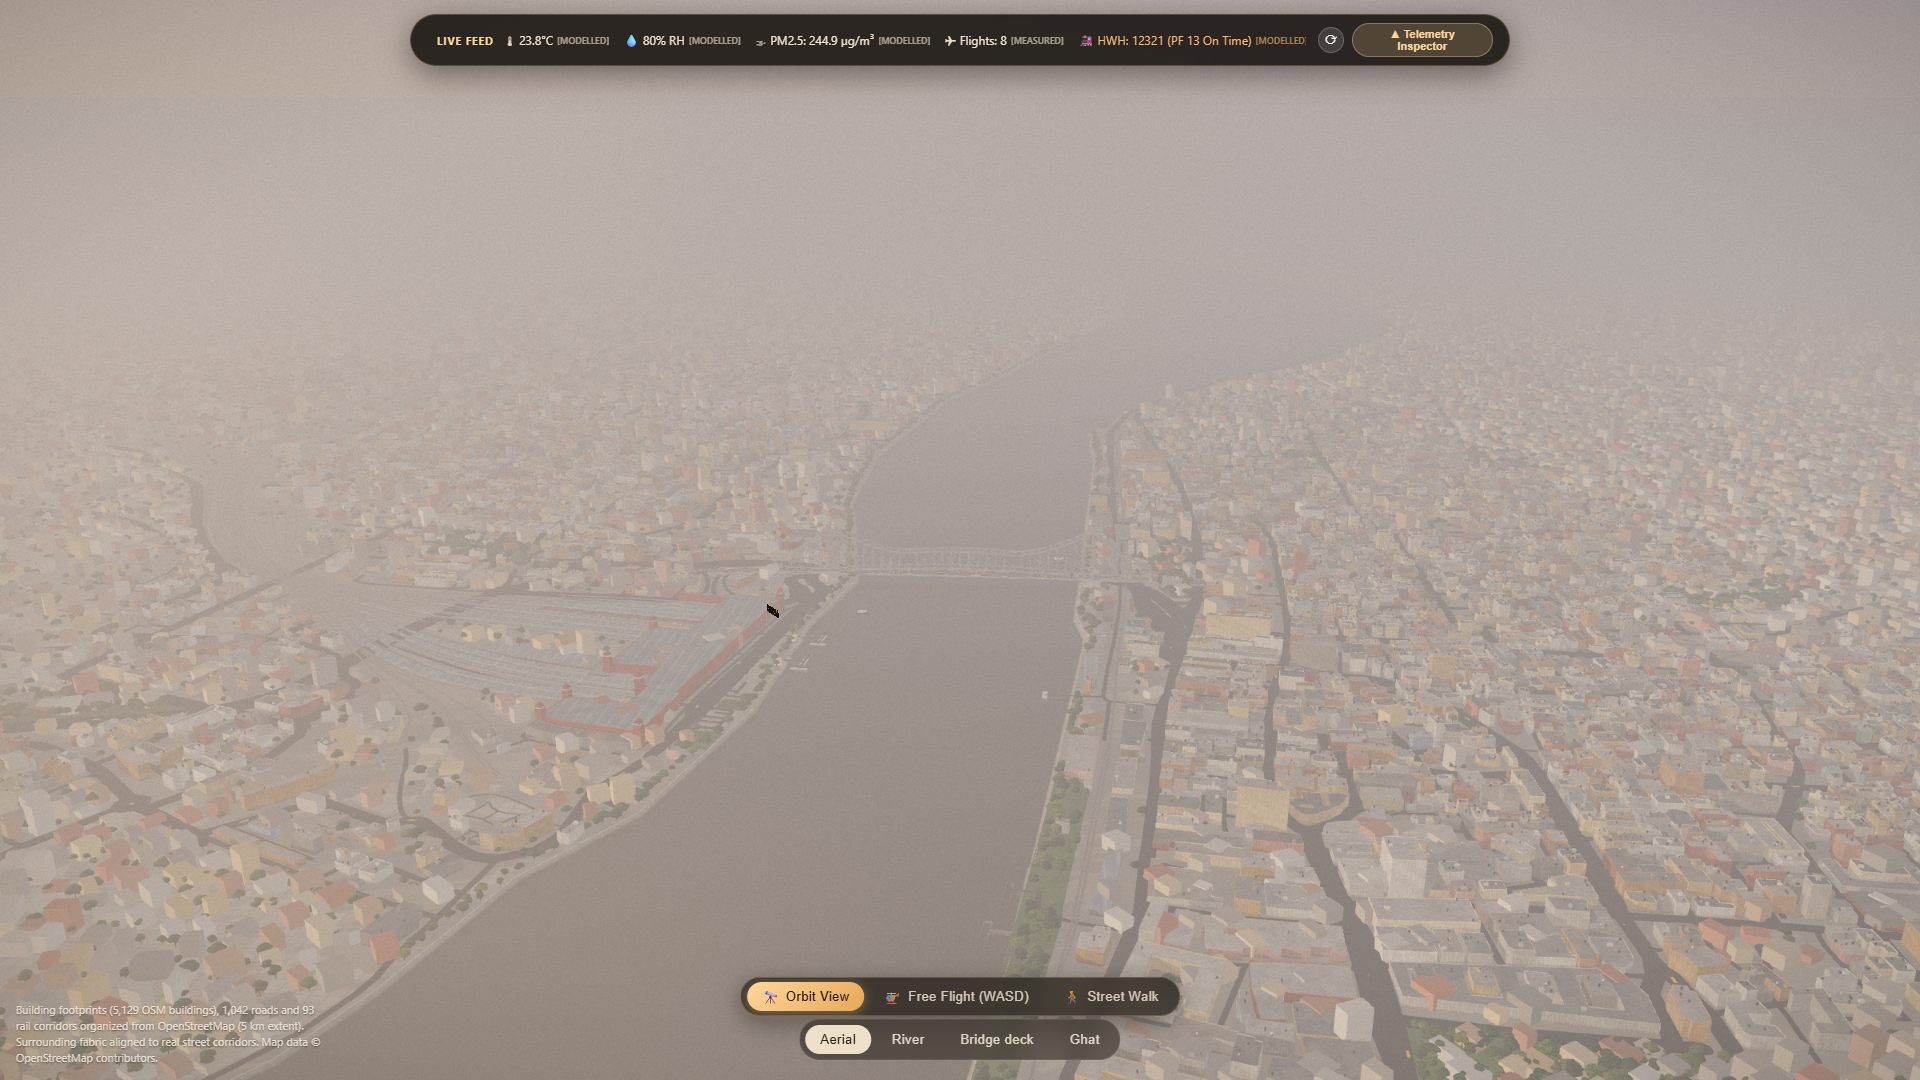
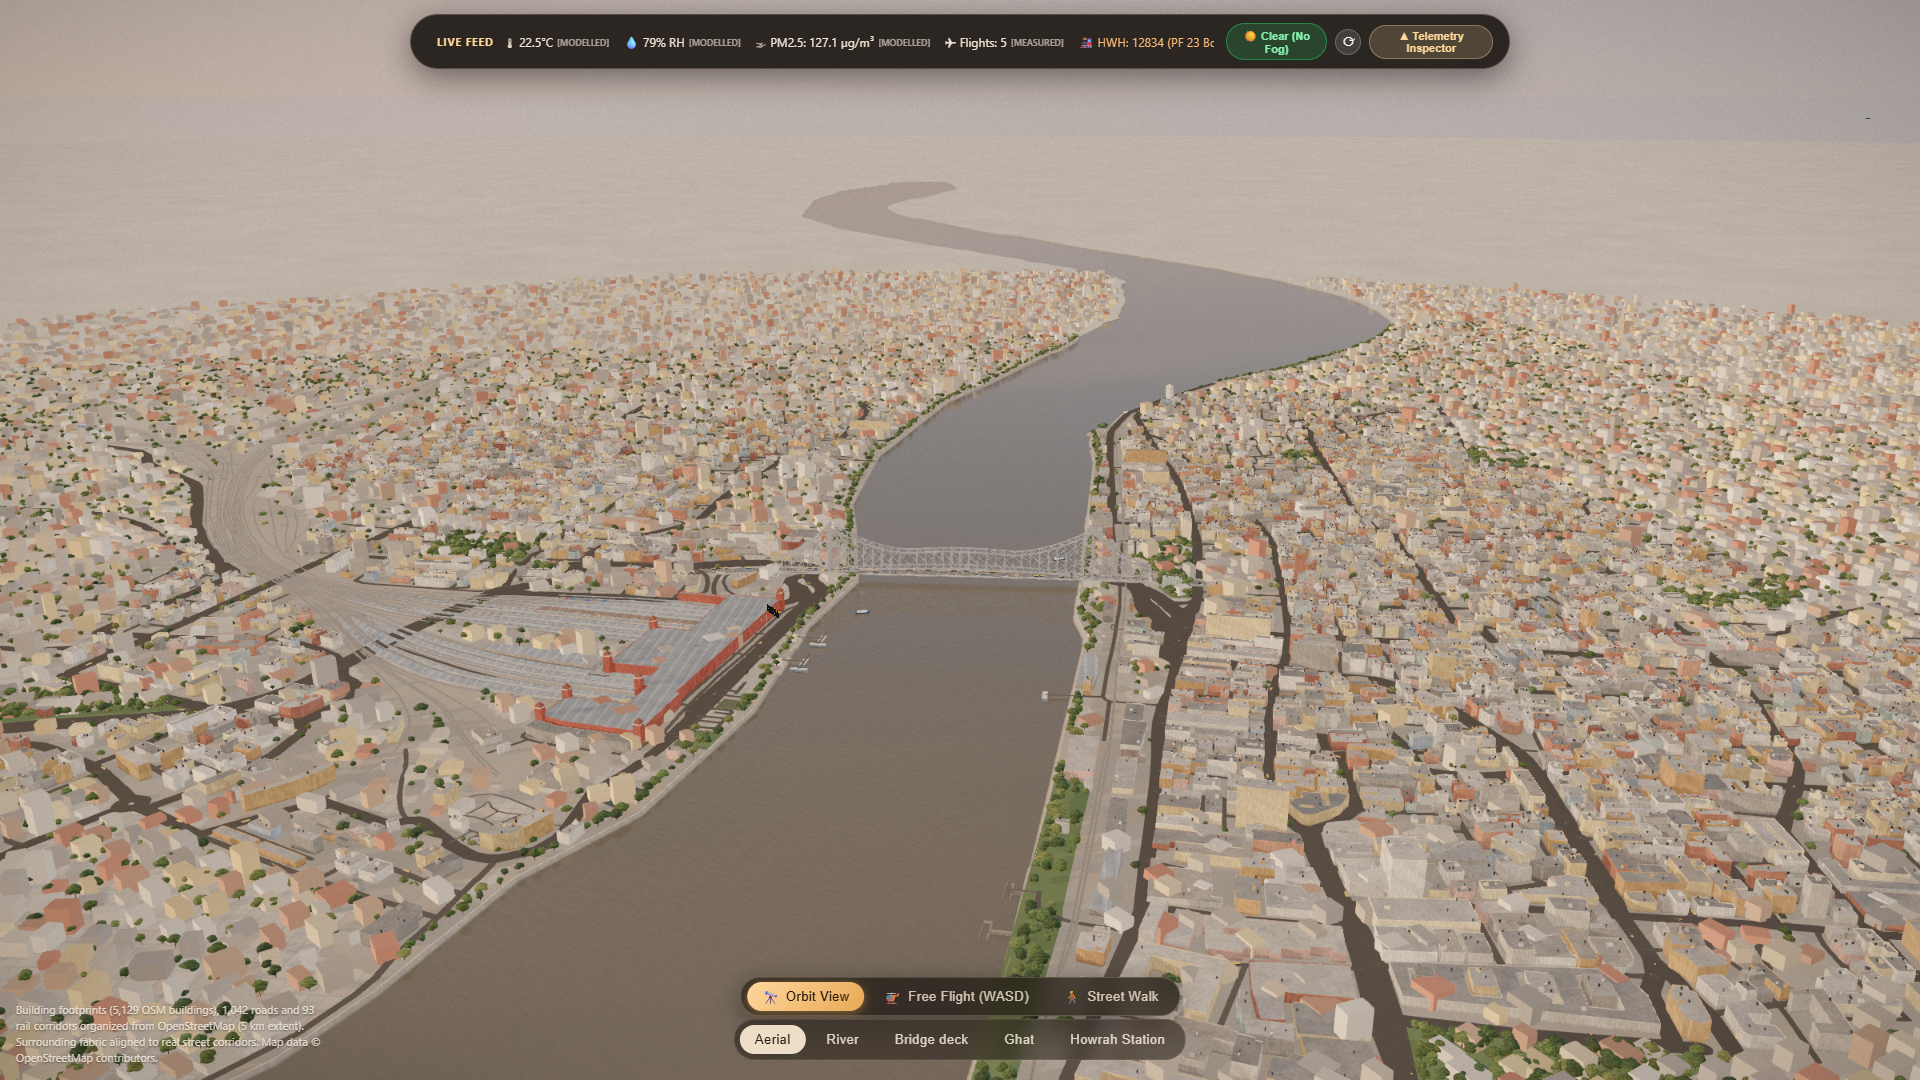
feat: remove fog by default and add clear atmosphere toggle

diff --git a/src/App.tsx b/src/App.tsx
@@ -145,6 +145,7 @@ function World({
   trains = [],
   hazeDensity = 0.00023,
   hazeMax = 0.96,
+  enableFog = false,
 }: {
   data: SceneData
   shot: Shot
@@ -158,6 +159,7 @@ function World({
   trains?: TrainStationDeparture[]
   hazeDensity?: number
   hazeMax?: number
+  enableFog?: boolean
 }) {
   const focus = useRef(new THREE.Vector3())
   const riverShape = useMemo(() => new THREE.Shape(toPts(data.river).map((p) => new THREE.Vector2(p[0], -p[1]))), [data])
@@ -187,7 +189,7 @@ function World({
         speed={speed}
         setSpeed={setSpeed}
       />
-      <Effects focus={focus} hazeDensity={hazeDensity} hazeMax={hazeMax} />
+      <Effects focus={focus} hazeDensity={hazeDensity} hazeMax={hazeMax} enableFog={enableFog} />
       <Probe onFreeze={onFreeze} />
     </>
   )
@@ -202,6 +204,7 @@ export function App() {
   const [dpr, setDpr] = useState(Math.min(window.devicePixelRatio || 1, MAX_DPR))
   const fixedDpr = params.has('dpr')
   const [frozen, setFrozen] = useState(false)
+  const [enableFog, setEnableFog] = useState(params.get('fog') === '1')
 
   // Stage 3: Live telemetry streaming with disk cache fallback
   const { telemetry, loading: telemLoading, error: telemError, refresh: telemRefresh } = useLiveData(20_000)
@@ -245,6 +248,8 @@ export function App() {
         loading={telemLoading}
         error={telemError}
         onRefresh={telemRefresh}
+        enableFog={enableFog}
+        onToggleFog={() => setEnableFog((prev) => !prev)}
       />
 
       <Canvas
@@ -275,6 +280,7 @@ export function App() {
             trains={trains}
             hazeDensity={hazeDensity}
             hazeMax={hazeMax}
+            enableFog={enableFog}
           />
         </Suspense>
       </Canvas>

diff --git a/src/ui/LiveTelemetryOverlay.tsx b/src/ui/LiveTelemetryOverlay.tsx
@@ -64,11 +64,15 @@ export function LiveTelemetryOverlay({
   loading,
   error,
   onRefresh,
+  enableFog = false,
+  onToggleFog,
 }: {
   telemetry: LiveTelemetry | null
   loading: boolean
   error: string | null
   onRefresh: () => void
+  enableFog?: boolean
+  onToggleFog?: () => void
 }) {
   const [open, setOpen] = useState(false)
   const [activeTab, setActiveTab] = useState<'all' | 'weather' | 'air' | 'traffic' | 'flights' | 'trains'>('all')
@@ -133,6 +137,18 @@ export function LiveTelemetryOverlay({
         </div>
 
         <div className="telem-ticker-actions">
+          {onToggleFog && (
+            <button
+              className={`telem-btn-fog ${enableFog ? 'fog-on' : 'fog-off'}`}
+              onClick={(e) => {
+                e.stopPropagation()
+                onToggleFog()
+              }}
+              title={enableFog ? 'Atmospheric fog is active. Click to remove fog.' : 'Fog is removed (Crystal Clear). Click to enable live atmospheric fog.'}
+            >
+              {enableFog ? '🌫 Fog: ON' : '☀ Clear (No Fog)'}
+            </button>
+          )}
           <button
             className="telem-btn-refresh"
             onClick={(e) => {

diff --git a/src/styles.css b/src/styles.css
@@ -189,6 +189,34 @@ kbd {
   background: rgba(255, 215, 153, 0.3);
 }
 
+.telem-btn-fog {
+  border-radius: 999px;
+  padding: 4px 11px;
+  font-size: 11px;
+  font-weight: 600;
+  cursor: pointer;
+  display: flex;
+  align-items: center;
+  gap: 4px;
+  transition: all 0.15s ease;
+}
+.telem-btn-fog.fog-off {
+  background: rgba(34, 197, 94, 0.2);
+  border: 1px solid rgba(34, 197, 94, 0.5);
+  color: #86efac;
+}
+.telem-btn-fog.fog-off:hover {
+  background: rgba(34, 197, 94, 0.35);
+}
+.telem-btn-fog.fog-on {
+  background: rgba(245, 158, 11, 0.2);
+  border: 1px solid rgba(245, 158, 11, 0.5);
+  color: #fcd34d;
+}
+.telem-btn-fog.fog-on:hover {
+  background: rgba(245, 158, 11, 0.35);
+}
+
 /* Pulses */
 .telem-pulse {
   display: inline-block;

diff --git a/src/fx/Effects.tsx b/src/fx/Effects.tsx
@@ -22,14 +22,16 @@ export function Effects({
   focus: _focus,
   hazeDensity = 0.00023,
   hazeMax = 0.96,
+  enableFog = false,
 }: {
   focus: React.RefObject<THREE.Vector3>
   hazeDensity?: number
   hazeMax?: number
+  enableFog?: boolean
 }) {
   return (
     <EffectComposer multisampling={0} enableNormalPass={false} frameBufferType={THREE.HalfFloatType}>
-      <Haze density={hazeDensity} max={hazeMax} />
+      {enableFog && <Haze density={hazeDensity} max={hazeMax} />}
       <ToneMapping mode={ToneMappingMode.AGX} />
       <Noise blendFunction={BlendFunction.OVERLAY} opacity={0.065} />
       <Vignette offset={0.36} darkness={0.32} />
